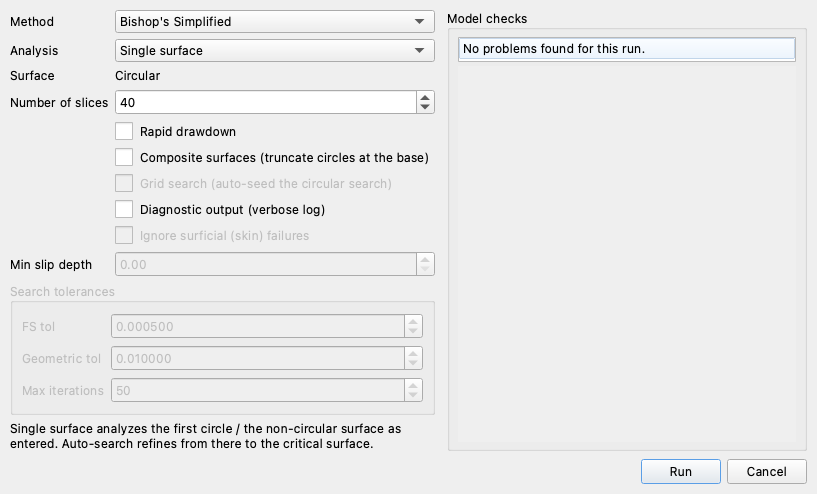
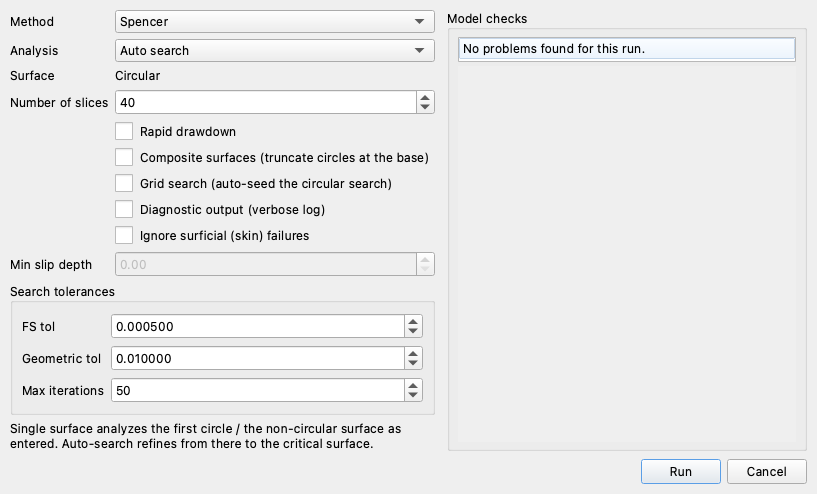
fix(docs): LEM-1's Run LEM capture shows the run the step sets up
The figure photographed the dialog as it opens — Method `Bishop's Simplified`,
Analysis `Single surface`, the search tolerances greyed out — while the numbered
list beside it tells the reader to choose Spencer and an auto search, and the
page's whole results arc is Spencer's 1.276 from that search. A reader checking
their screen against the picture would have found their own choices contradicted
by it.

The producer now hands RunLemDialog the taught state (`method="spencer"`,
`analysis="auto_search"`, `num_slices=40` — the dialog's own defaults keys), so
the capture reads Spencer / Auto search / 40 with the Search tolerances group
live, and Surface stays the fixed `Circular` label the step describes. The
docstring said "Bishop, a single surface", which predates the page's revision;
it says what the capture is now.

Claude-Session: https://claude.ai/code/session_01XjjT2aBxw8gY7EFdpoUcpj

diff --git a/tools/capture_tutorial_screenshots.py b/tools/capture_tutorial_screenshots.py
@@ -149,11 +149,20 @@ def lem01_circles():
 
 
 def lem01_run_lem():
-    """The Run LEM dialog on the complete model, set up for the tutorial's first run:
-    Bishop, a single surface, 40 slices — and a clean model-checks column."""
+    """The Run LEM dialog on the complete model, filled in the way the step beside
+    it dictates: Spencer, an auto search, 40 slices — and a clean model-checks
+    column.
+
+    The dialog is photographed in the state the reader's own dialog is in when
+    they press **Run**, not in the state it opens in: the page's numbered list is
+    read against this figure, and a capture showing the defaults would have the
+    reader checking their choices against a picture of the choices not yet made.
+    Surface takes no default — this model defines circles and no non-circular
+    surface, so the row is the fixed label the step describes.
+    """
     from studio.dialogs import RunLemDialog
 
-    dlg = RunLemDialog(defaults={"method": "bishop", "analysis": "single_surface",
+    dlg = RunLemDialog(defaults={"method": "spencer", "analysis": "auto_search",
                                  "num_slices": 40},
                        slope_data=_load(LEM01))
     dlg.resize(dlg.sizeHint())
